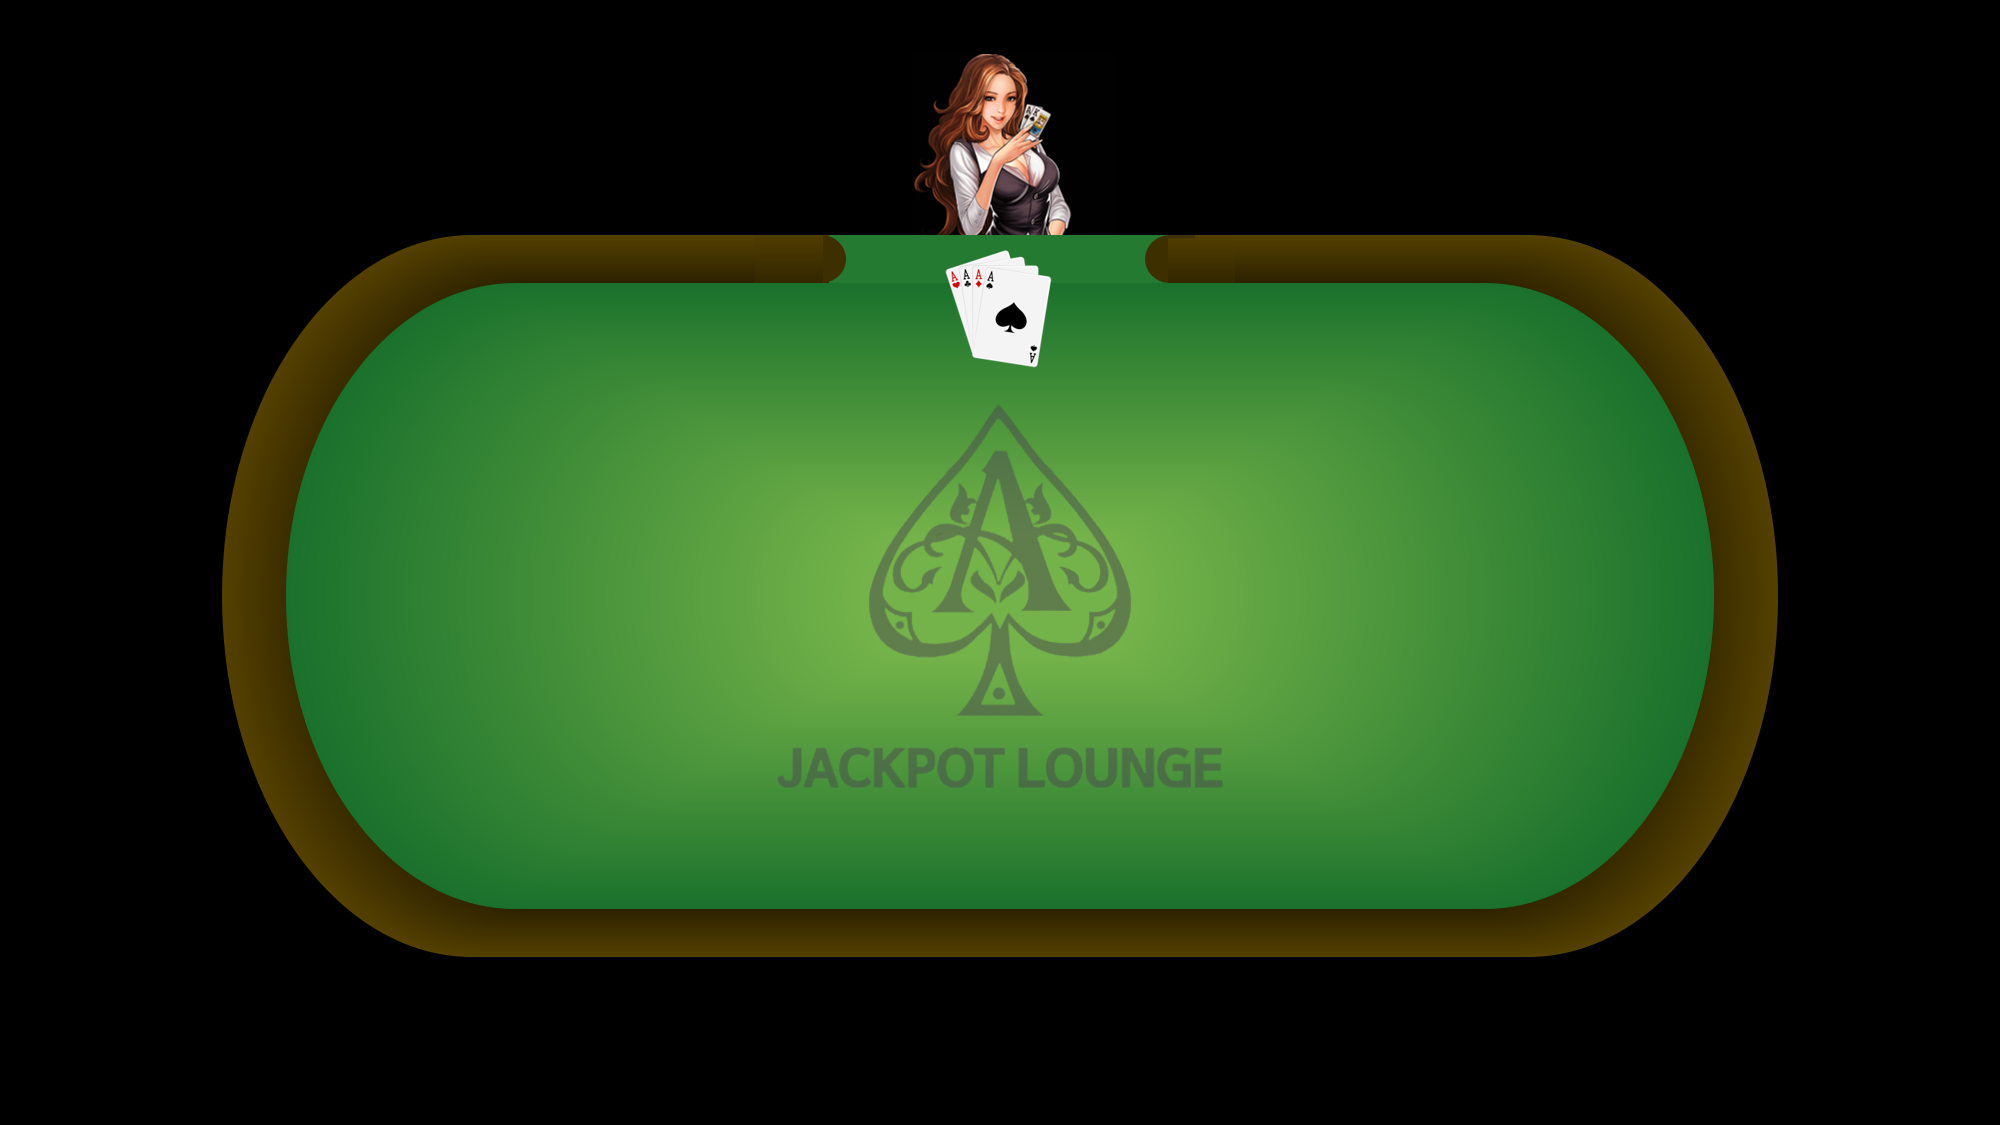
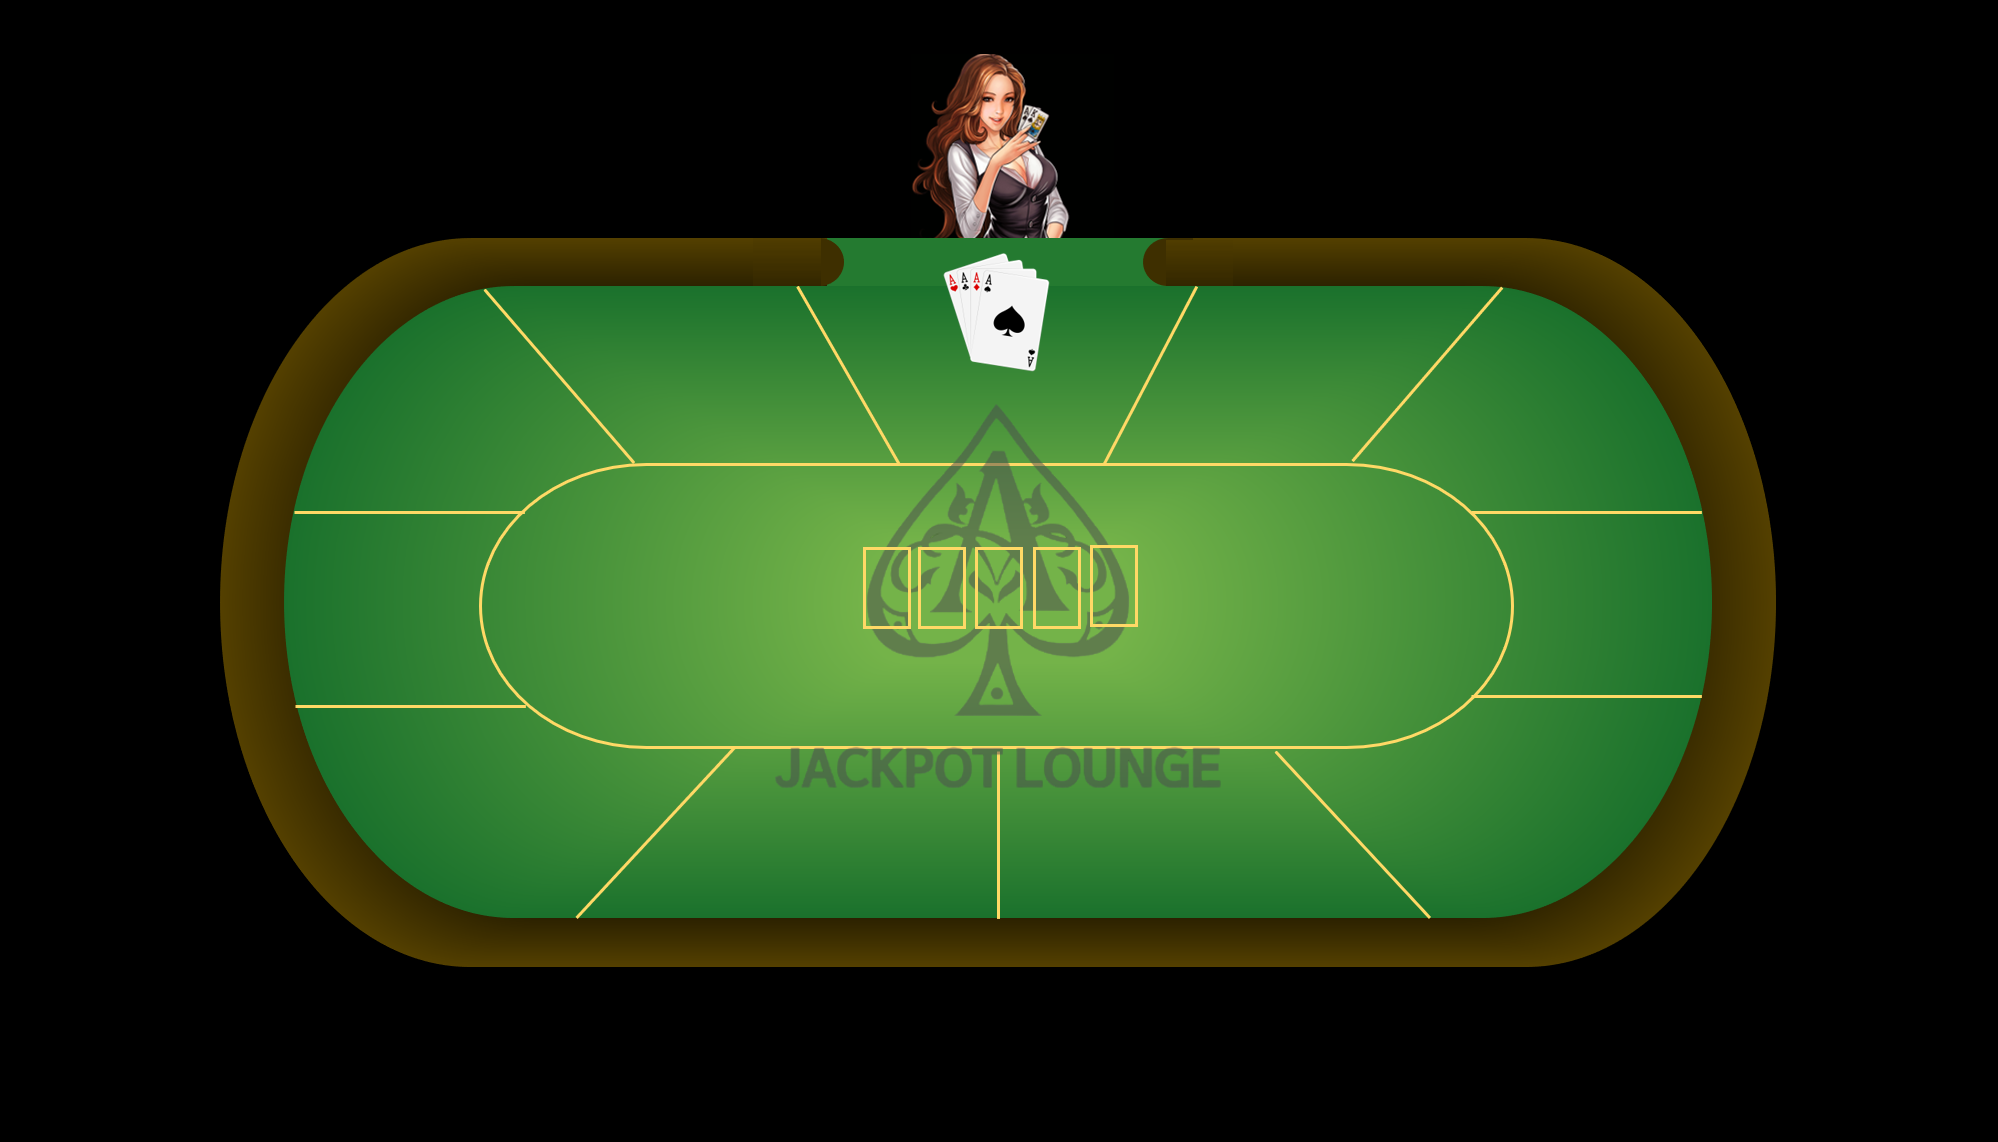
3buyin 기준 적용 완료

diff --git a/src/page/table.js b/src/page/table.js
@@ -2,6 +2,7 @@ import React from "react";
 import * as firebase from 'firebase';
 import { useObject } from 'react-firebase-hooks/database';
 import back from '../static/table.png'
+import buyin from '../static/buyin.svg'
 
 
 const Table = () => {
@@ -18,26 +19,311 @@ const Table = () => {
     const [ten] = useObject(firebase.database().ref('/user/10/name'));
     const [eleven] = useObject(firebase.database().ref('/user/11/name'));
 
+    const [oneB] = useObject(firebase.database().ref('/user/1/b'));
+    const [twoB] = useObject(firebase.database().ref('/user/2/b'));
+    const [threeB] = useObject(firebase.database().ref('/user/3/b'));
+    const [fourB] = useObject(firebase.database().ref('/user/4/b'));
+    const [fiveB] = useObject(firebase.database().ref('/user/5/b'));
+    const [sixB] = useObject(firebase.database().ref('/user/6/b'));
+    const [sevenB] = useObject(firebase.database().ref('/user/7/b'));
+    const [eightB] = useObject(firebase.database().ref('/user/8/b'));
+    const [nineB] = useObject(firebase.database().ref('/user/9/b'));
+    const [tenB] = useObject(firebase.database().ref('/user/10/b'));
+    const [elevenB] = useObject(firebase.database().ref('/user/11/b'));
+    const [totalB] = useObject(firebase.database().ref('/user/totalBuyin'));
+
     return (
         <div style={{
+            position: 'static',
             minHeight: "100%",
             height: "100vh",
             backgroundImage: "url(" + back + ")",
             backgroundSize: '100% 100%'
         }}>
-        <link href="https://fonts.googleapis.com/css2?family=Noto+Sans+KR&display=swap" rel="stylesheet" />
-        <div style={{fontSize:'4em' , color:'white', fontFamily:`Noto Sans KR, sans-serif`}}>
-                <span style={{position:'absolute', top:'120px', right:'500px' }}>1.&nbsp;{one && one.val()}</span>
-                <span style={{position:'absolute' , top:'270px', right:'30px'}}>2.&nbsp;{two && two.val()}</span>
-                <span style={{position:'absolute' ,top:'610px', right:'30px' }}>3.&nbsp;{three && three.val()}</span>
-                <span style={{position:'absolute' ,top:'945px', right:'160px'}}>4.&nbsp;{four && four.val()}</span>
-                <span style={{position:'absolute' ,top:'995px', right:'620px' }}>5.&nbsp;{five && five.val()}</span>
-                <span style={{position:'absolute' ,top:'995px', left:'730px'}}>6.&nbsp;{six && six.val()}</span>
-                <span style={{position:'absolute' ,top:'955px', left:'200px' }}>7.&nbsp;{seven && seven.val()}</span>
-                <span style={{position:'absolute' , top:'615px', left:'20px' }}>8.&nbsp;{eight && eight.val()}</span>
-                <span style={{position:'absolute', top:'250px', left:'90px' }}>9.&nbsp;{nine && nine.val()}</span>
-                <span style={{position:'absolute', top:'120px', left:'540px' }}>10.&nbsp;{ten && ten.val()}</span>
-                <span style={{position:'absolute' }}>{eleven && eleven.val()}</span>
+            <link href="https://fonts.googleapis.com/css2?family=Noto+Sans+KR&display=swap" rel="stylesheet" />
+            <div style={{ fontSize: '4em', color: 'white', fontFamily: `Noto Sans KR, sans-serif` }}>
+                <div>
+                    <span style={{ position: 'absolute', top: '120px', right: '500px' }}>1.&nbsp;{one && one.val()}</span>
+                    {oneB && oneB.val() === 1 ?
+                        <img src={buyin} style={{ width: '50px', height: '120px', position: 'absolute', top: '310px', right: '710px' }} />
+                        :
+                        <></>
+                    }
+                    {oneB && oneB.val() === 2 ?
+                        <div>
+                            <img src={buyin} style={{ width: '50px', height: '120px', position: 'absolute', top: '310px', right: '710px' }} />
+                            <img src={buyin} style={{ width: '50px', height: '120px', position: 'absolute', top: '310px', right: '660px' }} />
+                        </div>
+                        :
+                        <></>
+                    }
+                    {oneB && oneB.val() === 3 ?
+                        <div>
+                            <img src={buyin} style={{ width: '50px', height: '120px', position: 'absolute', top: '310px', right: '710px' }} />
+                            <img src={buyin} style={{ width: '50px', height: '120px', position: 'absolute', top: '310px', right: '660px' }} />
+                            <img src={buyin} style={{ width: '50px', height: '120px', position: 'absolute', top: '310px', right: '610px' }} />
+                        </div>
+                        :
+                        <></>
+                    }
+
+                </div>
+                <div>
+                    <span style={{ position: 'absolute', top: '270px', right: '30px' }}>2.&nbsp;{two && two.val()}</span>
+                    {twoB && twoB.val() === 1 ?
+                        <img src={buyin} style={{ width: '50px', height: '120px', position: 'absolute', top: '370px', right: '470px' }} />
+                        :
+                        <></>
+                    }
+                    {twoB && twoB.val() === 2 ?
+                        <div>
+                            <img src={buyin} style={{ width: '50px', height: '120px', position: 'absolute', top: '370px', right: '470px' }} />
+                            <img src={buyin} style={{ width: '50px', height: '120px', position: 'absolute', top: '370px', right: '420px' }} />
+
+                        </div>
+                        :
+                        <></>
+                    }
+                    {twoB && twoB.val() === 3 ?
+                        <div>
+                            <img src={buyin} style={{ width: '50px', height: '120px', position: 'absolute', top: '370px', right: '470px' }} />
+                            <img src={buyin} style={{ width: '50px', height: '120px', position: 'absolute', top: '370px', right: '420px' }} />
+                            <img src={buyin} style={{ width: '50px', height: '120px', position: 'absolute', top: '370px', right: '370px' }} />
+                        </div>
+                        :
+                        <></>
+                    }
+
+                </div>
+                <div>
+                    <span style={{ position: 'absolute', top: '610px', right: '30px' }}>3.&nbsp;{three && three.val()}</span>
+                    {threeB && threeB.val() === 1 ?
+                        <img src={buyin} style={{ width: '50px', height: '120px', position: 'absolute', top: '540px', right: '410px' }} />
+                        :
+                        <></>
+                    }
+                    {threeB && threeB.val() === 2 ?
+                        <div>
+                            <img src={buyin} style={{ width: '50px', height: '120px', position: 'absolute', top: '540px', right: '410px' }} />
+                            <img src={buyin} style={{ width: '50px', height: '120px', position: 'absolute', top: '540px', right: '360px' }} />
+
+                        </div>
+                        :
+                        <></>
+                    }
+                    {threeB && threeB.val() === 3 ?
+                        <div>
+                            <img src={buyin} style={{ width: '50px', height: '120px', position: 'absolute', top: '540px', right: '410px' }} />
+                            <img src={buyin} style={{ width: '50px', height: '120px', position: 'absolute', top: '540px', right: '360px' }} />
+                            <img src={buyin} style={{ width: '50px', height: '120px', position: 'absolute', top: '540px', right: '310px' }} />
+                        </div>
+                        :
+                        <></>
+                    }
+
+                </div>
+                <div>
+                    <span style={{ position: 'absolute', top: '945px', right: '160px' }}>4.&nbsp;{four && four.val()}</span>
+                    {fourB && fourB.val() === 1 ?
+                        <img src={buyin} style={{ width: '50px', height: '120px', position: 'absolute', top: '740px', right: '500px' }} />
+                        :
+                        <></>
+                    }
+                    {fourB && fourB.val() === 2 ?
+                        <div>
+                            <img src={buyin} style={{ width: '50px', height: '120px', position: 'absolute', top: '740px', right: '500px' }} />
+                            <img src={buyin} style={{ width: '50px', height: '120px', position: 'absolute', top: '740px', right: '450px' }} />
+
+
+                        </div>
+                        :
+                        <></>
+                    }
+                    {fourB && fourB.val() === 3 ?
+                        <div>
+                            <img src={buyin} style={{ width: '50px', height: '120px', position: 'absolute', top: '740px', right: '500px' }} />
+                            <img src={buyin} style={{ width: '50px', height: '120px', position: 'absolute', top: '740px', right: '450px' }} />
+                            <img src={buyin} style={{ width: '50px', height: '120px', position: 'absolute', top: '740px', right: '400px' }} />
+                        </div>
+                        :
+                        <></>
+                    }
+
+                </div>
+                <div>
+                    <span style={{ position: 'absolute', top: '995px', right: '620px' }}>5.&nbsp;{five && five.val()}</span>
+                    {fiveB && fiveB.val() === 1 ?
+                        <img src={buyin} style={{ width: '50px', height: '120px', position: 'absolute', top: '760px', right: '850px' }} />
+
+                        :
+                        <></>
+                    }
+                    {fiveB && fiveB.val() === 2 ?
+                        <div>
+                            <img src={buyin} style={{ width: '50px', height: '120px', position: 'absolute', top: '760px', right: '850px' }} />
+                            <img src={buyin} style={{ width: '50px', height: '120px', position: 'absolute', top: '760px', right: '800px' }} />
+
+
+
+                        </div>
+                        :
+                        <></>
+                    }
+                    {fiveB && fiveB.val() === 3 ?
+                        <div>
+                            <img src={buyin} style={{ width: '50px', height: '120px', position: 'absolute', top: '760px', right: '850px' }} />
+                            <img src={buyin} style={{ width: '50px', height: '120px', position: 'absolute', top: '760px', right: '800px' }} />
+                            <img src={buyin} style={{ width: '50px', height: '120px', position: 'absolute', top: '760px', right: '750px' }} />
+                        </div>
+                        :
+                        <></>
+                    }
+
+                </div>
+                <div>
+                    <span style={{ position: 'absolute', top: '995px', left: '730px' }}>6.&nbsp;{six && six.val()}</span>
+                    {sixB && sixB.val() === 1 ?
+                        <img src={buyin} style={{ width: '50px', height: '120px', position: 'absolute', top: '760px', left: '850px' }} />
+
+                        :
+                        <></>
+                    }
+                    {sixB && sixB.val() === 2 ?
+                        <div>
+                            <img src={buyin} style={{ width: '50px', height: '120px', position: 'absolute', top: '760px', left: '850px' }} />
+                            <img src={buyin} style={{ width: '50px', height: '120px', position: 'absolute', top: '760px', left: '800px' }} />
+
+
+
+
+                        </div>
+                        :
+                        <></>
+                    }
+                    {sixB && sixB.val() === 3 ?
+                        <div>
+                            <img src={buyin} style={{ width: '50px', height: '120px', position: 'absolute', top: '760px', left: '850px' }} />
+                            <img src={buyin} style={{ width: '50px', height: '120px', position: 'absolute', top: '760px', left: '800px' }} />
+                            <img src={buyin} style={{ width: '50px', height: '120px', position: 'absolute', top: '760px', left: '750px' }} />
+                        </div>
+                        :
+                        <></>
+                    }
+
+                </div>
+                <span style={{ position: 'absolute', top: '955px', left: '200px' }}>7.&nbsp;{seven && seven.val()}</span>
+                {sevenB && sevenB.val() === 1 ?
+                    <img src={buyin} style={{ width: '50px', height: '120px', position: 'absolute', top: '740px', left: '500px' }} />
+
+                    :
+                    <></>
+                }
+                {sevenB && sevenB.val() === 2 ?
+                    <div>
+                        <img src={buyin} style={{ width: '50px', height: '120px', position: 'absolute', top: '740px', left: '500px' }} />
+                        <img src={buyin} style={{ width: '50px', height: '120px', position: 'absolute', top: '740px', left: '450px' }} />
+
+
+
+                    </div>
+                    :
+                    <></>
+                }
+                {sevenB && sevenB.val() === 3 ?
+                    <div>
+                        <img src={buyin} style={{ width: '50px', height: '120px', position: 'absolute', top: '740px', left: '500px' }} />
+                        <img src={buyin} style={{ width: '50px', height: '120px', position: 'absolute', top: '740px', left: '450px' }} />
+                        <img src={buyin} style={{ width: '50px', height: '120px', position: 'absolute', top: '740px', left: '400px' }} />
+                    </div>
+                    :
+                    <></>
+                }
+
+                <div>
+                    <span style={{ position: 'absolute', top: '615px', left: '20px' }}>8.&nbsp;{eight && eight.val()}</span>
+                    {eightB && eightB.val() === 1 ?
+                        <img src={buyin} style={{ width: '50px', height: '120px', position: 'absolute', top: '540px', left: '400px' }} />
+
+                        :
+                        <></>
+                    }
+                    {eightB && eightB.val() === 2 ?
+                        <div>
+                            <img src={buyin} style={{ width: '50px', height: '120px', position: 'absolute', top: '540px', left: '400px' }} />
+                            <img src={buyin} style={{ width: '50px', height: '120px', position: 'absolute', top: '540px', left: '350px' }} />
+
+
+                        </div>
+                        :
+                        <></>
+                    }
+                    {eightB && eightB.val() === 3 ?
+                        <div>
+                            <img src={buyin} style={{ width: '50px', height: '120px', position: 'absolute', top: '540px', left: '400px' }} />
+                            <img src={buyin} style={{ width: '50px', height: '120px', position: 'absolute', top: '540px', left: '350px' }} />
+                            <img src={buyin} style={{ width: '50px', height: '120px', position: 'absolute', top: '540px', left: '300px' }} />
+                        </div>
+                        :
+                        <></>
+                    }
+
+                </div>
+                <div>
+                    <span style={{ position: 'absolute', top: '250px', left: '90px' }}>9.&nbsp;{nine && nine.val()}</span>
+                    {nineB && nineB.val() === 1 ?
+                        <img src={buyin} style={{ width: '50px', height: '120px', position: 'absolute', top: '370px', left: '470px' }} />
+
+                        :
+                        <></>
+                    }
+                    {nineB && nineB.val() === 2 ?
+                        <div>
+                            <img src={buyin} style={{ width: '50px', height: '120px', position: 'absolute', top: '370px', left: '470px' }} />
+                            <img src={buyin} style={{ width: '50px', height: '120px', position: 'absolute', top: '370px', left: '420px' }} />
+
+                        </div>
+                        :
+                        <></>
+                    }
+                    {nineB && nineB.val() === 3 ?
+                        <div>
+                            <img src={buyin} style={{ width: '50px', height: '120px', position: 'absolute', top: '370px', left: '470px' }} />
+                            <img src={buyin} style={{ width: '50px', height: '120px', position: 'absolute', top: '370px', left: '420px' }} />
+                            <img src={buyin} style={{ width: '50px', height: '120px', position: 'absolute', top: '370px', left: '370px' }} />
+                        </div>
+                        :
+                        <></>
+                    }
+
+                </div>
+                <div>
+                    <span style={{ position: 'absolute', top: '120px', left: '540px' }}>10.&nbsp;{ten && ten.val()}</span>
+                    {tenB && tenB.val() === 1 ?
+                        <img src={buyin} style={{ width: '50px', height: '120px', position: 'absolute', top: '310px', left: '710px' }} />
+
+                        :
+                        <></>
+                    }
+                    {tenB && tenB.val() === 2 ?
+                        <div>
+                            <img src={buyin} style={{ width: '50px', height: '120px', position: 'absolute', top: '310px', left: '710px' }} />
+                            <img src={buyin} style={{ width: '50px', height: '120px', position: 'absolute', top: '310px', left: '660px' }} />
+
+                        </div>
+                        :
+                        <></>
+                    }
+                    {tenB && tenB.val() === 3 ?
+                        <div>
+                            <img src={buyin} style={{ width: '50px', height: '120px', position: 'absolute', top: '310px', left: '710px' }} />
+                            <img src={buyin} style={{ width: '50px', height: '120px', position: 'absolute', top: '310px', left: '660px' }} />
+                            <img src={buyin} style={{ width: '50px', height: '120px', position: 'absolute', top: '310px', left: '610px' }} />
+                        </div>
+                        :
+                        <></>
+                    }
+
+                </div>
             </div>
         </div>
     )

diff --git a/src/page/dealer.js b/src/page/dealer.js
@@ -94,6 +94,9 @@ const Dealer = () => {
     useEffect(() => {
         if (subB && oneB && twoB && threeB && sevenB && eightB && nineB && tenB && elevenB) {
             setTotal(subB.val() + oneB.val() + twoB.val() + threeB.val() + fourB.val() + fiveB.val() + sixB.val() + sevenB.val() + eightB.val() + nineB.val() + tenB.val() + elevenB.val())
+            firebase.database().ref('user').update({
+                totalBuyin: subB.val() + oneB.val() + twoB.val() + threeB.val() + fourB.val() + fiveB.val() + sixB.val() + sevenB.val() + eightB.val() + nineB.val() + tenB.val() + elevenB.val()
+            })
         }
     }, [oneB, twoB, threeB, fourB, fiveB, sixB, sevenB, eightB, nineB, tenB, elevenB, subB]);
 
